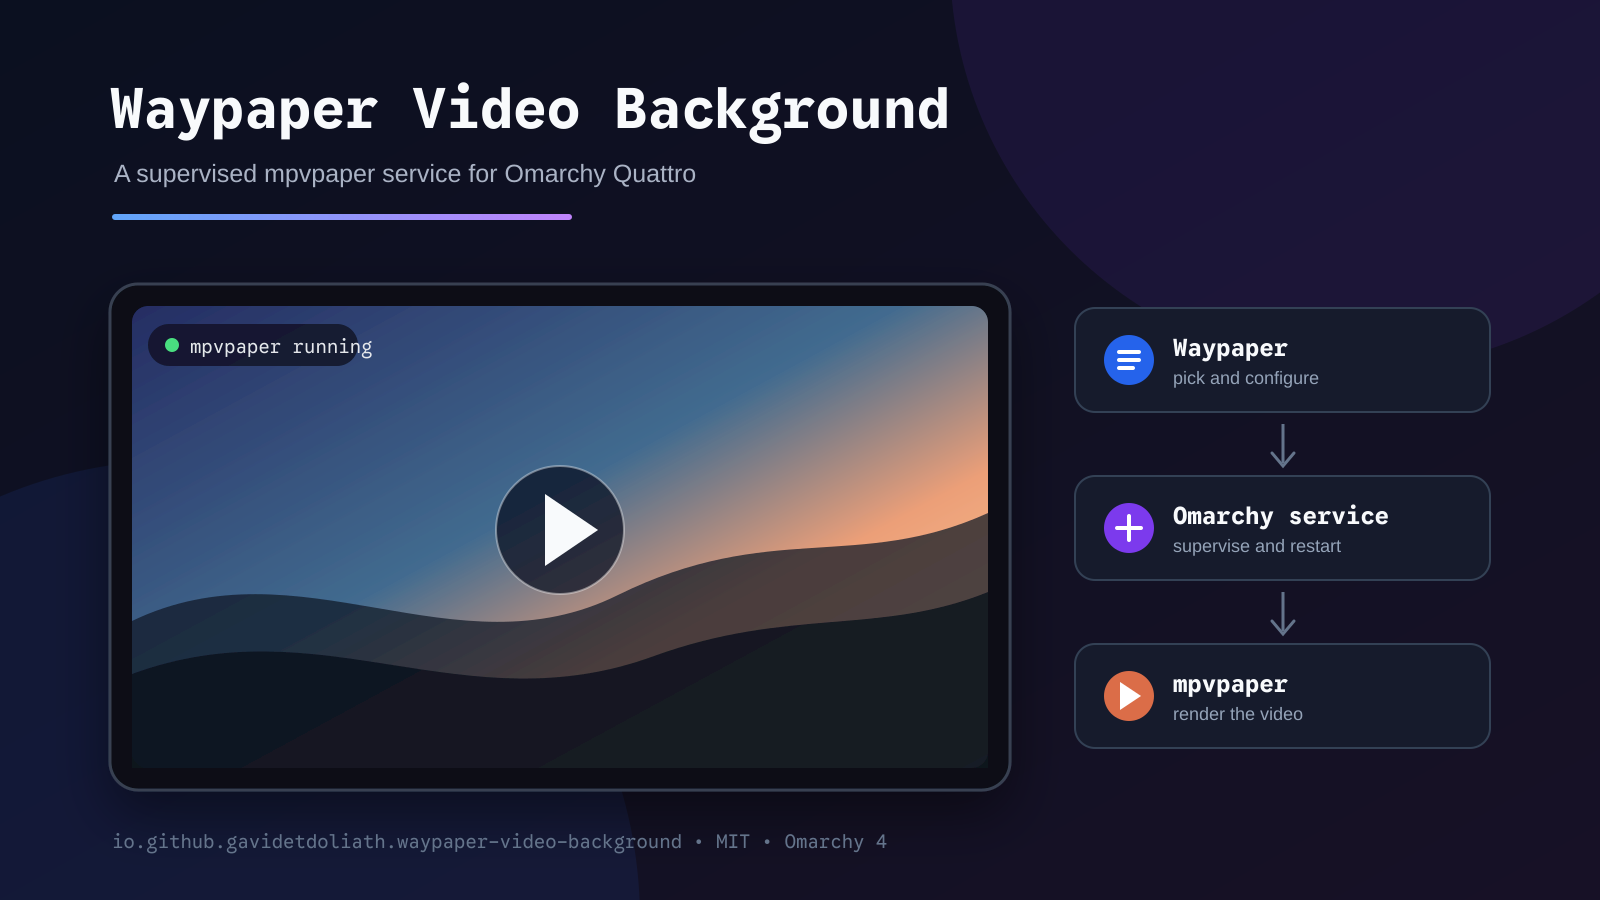
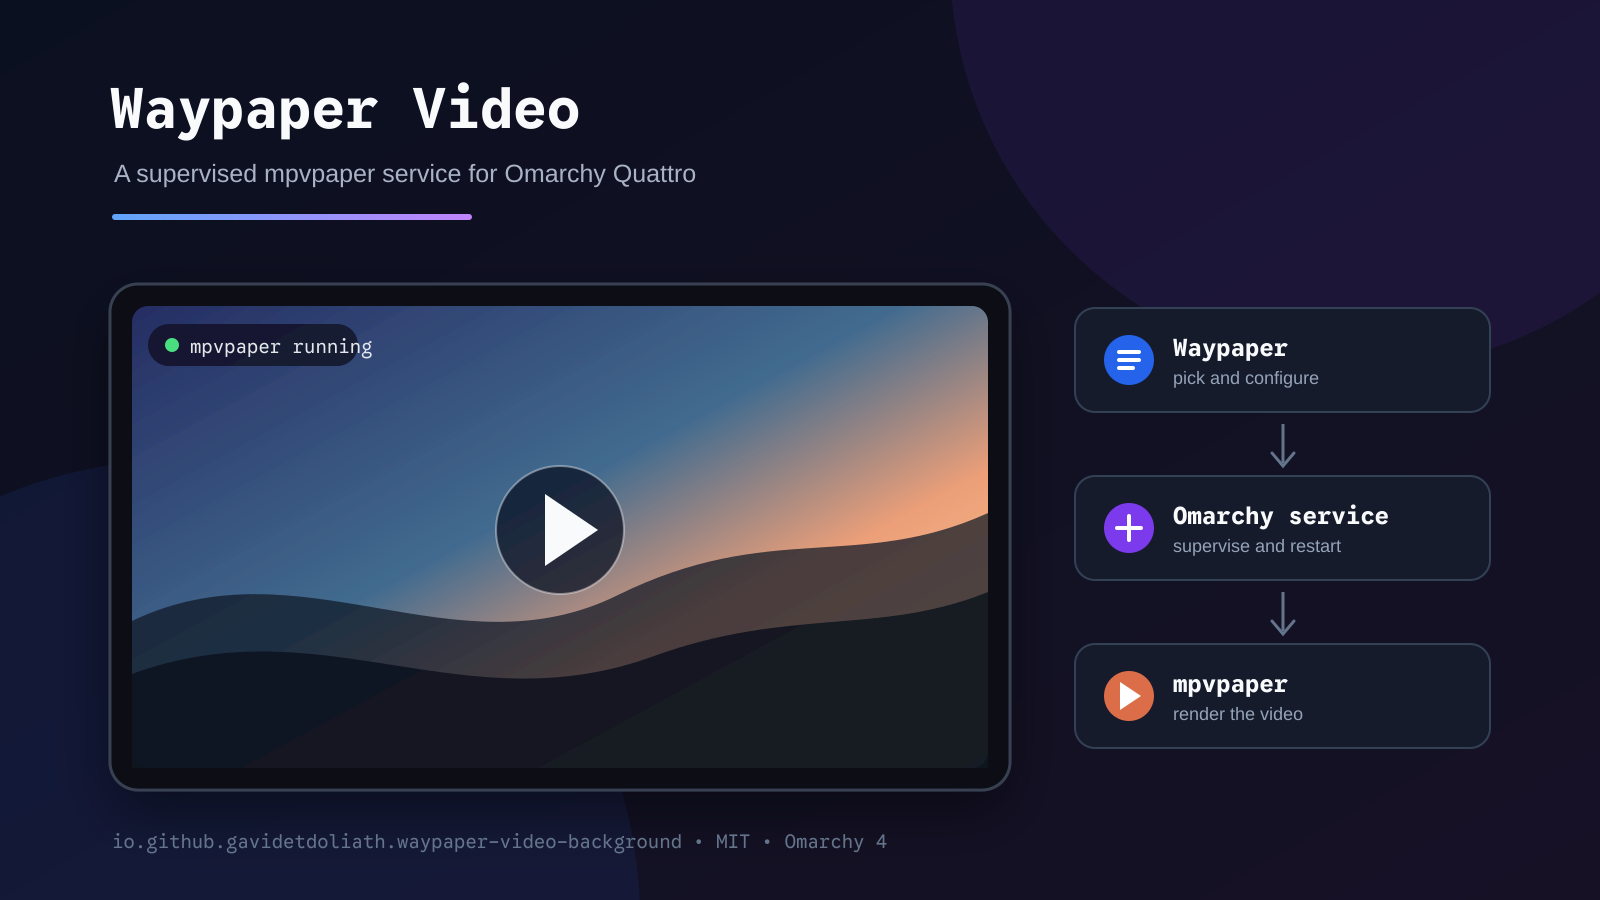
chore: rename plugin to Waypaper Video

Changed region(s): [[0.375, 0.0933, 0.5938, 0.1556], [0.2812, 0.2178, 0.3438, 0.2489]]

diff --git a/docs/marketplace-submission.md b/docs/marketplace-submission.md
@@ -9,7 +9,7 @@ reviewed, and the owner has explicitly confirmed every checklist item.
 - Category: `Appearance`
 - Tags: `media`, `quickshell`, `hyprland`
 - Suggested missing tag: `wallpaper`
-- Title: `[Plugin]: Waypaper Video Background`
+- Title: `[Plugin]: Waypaper Video`
 
 ## Issue body
 
@@ -48,6 +48,6 @@ Check all five boxes only after the owner confirms them, then create the issue:
 ```sh
 gh issue create \
   --repo HANCORE-linux/omarchy-plugin-marketplace \
-  --title "[Plugin]: Waypaper Video Background" \
+  --title "[Plugin]: Waypaper Video" \
   --body-file /tmp/omarchy-plugin-submission.md
 ```

diff --git a/README.fr.md b/README.fr.md
@@ -1,4 +1,4 @@
-# Fond vidéo Waypaper pour Omarchy
+# Waypaper Video pour Omarchy
 
 [English](README.md)
 
@@ -6,7 +6,7 @@ Plugin de service pour Omarchy Quattro qui supervise le fond vidéo `mpvpaper`
 sélectionné avec Waypaper. Waypaper reste l'interface graphique de sélection ;
 le plugin donne au moteur de rendu un cycle de vie fiable dans `omarchy-shell`.
 
-![Architecture du fond vidéo Waypaper](preview.png)
+![Architecture de Waypaper Video](preview.png)
 
 ## Fonctionnalités
 

diff --git a/TESTING.md b/TESTING.md
@@ -21,9 +21,9 @@ Verified on 2026-08-16 with Omarchy 4.0.0:
 The install lifecycle uses a test-only `omarchy-shell` stub so the live user
 shell is neither rescanned nor reconfigured.
 
-## Manual release matrix
+## Additional compatibility matrix
 
-Complete these checks before the public `v1.0.0` release:
+These checks extend the verified single-machine release coverage:
 
 - [x] Existing local Waypaper configuration resolves successfully.
 - [x] Manifest, QML, and shell syntax validation.

diff --git a/README.md b/README.md
@@ -1,4 +1,4 @@
-# Waypaper Video Background for Omarchy
+# Waypaper Video for Omarchy
 
 [Français](README.fr.md)
 
@@ -6,7 +6,7 @@ An Omarchy Quattro service plugin that supervises the `mpvpaper` video
 wallpaper selected through Waypaper. Waypaper remains the graphical picker;
 the plugin gives the renderer a reliable lifecycle inside `omarchy-shell`.
 
-![Waypaper Video Background architecture](preview.png)
+![Waypaper Video architecture](preview.png)
 
 ## Features
 

diff --git a/docs/release-checklist.md b/docs/release-checklist.md
@@ -12,7 +12,7 @@
 
 - [ ] Update `manifest.json` and `CHANGELOG.md` with the same version.
 - [ ] Keep the default branch installable before pushing.
-- [ ] Create an annotated `v1.0.0` tag and a GitHub release.
+- [ ] Create an annotated `v<version>` tag and a matching GitHub release.
 - [ ] Test `omarchy plugin add <public-git-url>` from the public repository.
 
 ## Marketplace

diff --git a/CHANGELOG.md b/CHANGELOG.md
@@ -7,6 +7,14 @@ and this project uses [Semantic Versioning](https://semver.org/spec/v2.0.0.html)
 
 ## [Unreleased]
 
+## [1.0.1] - 2026-08-16
+
+### Changed
+
+- Shortened the public display name from `Waypaper Video Background` to
+  `Waypaper Video` while keeping the repository, plugin ID, and IPC target
+  stable.
+
 ## [1.0.0] - 2026-08-16
 
 ### Added
